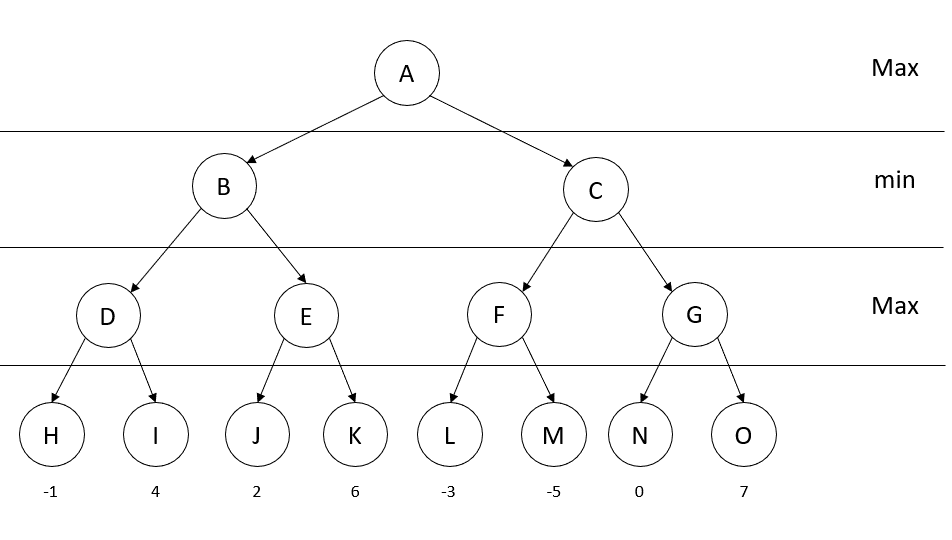
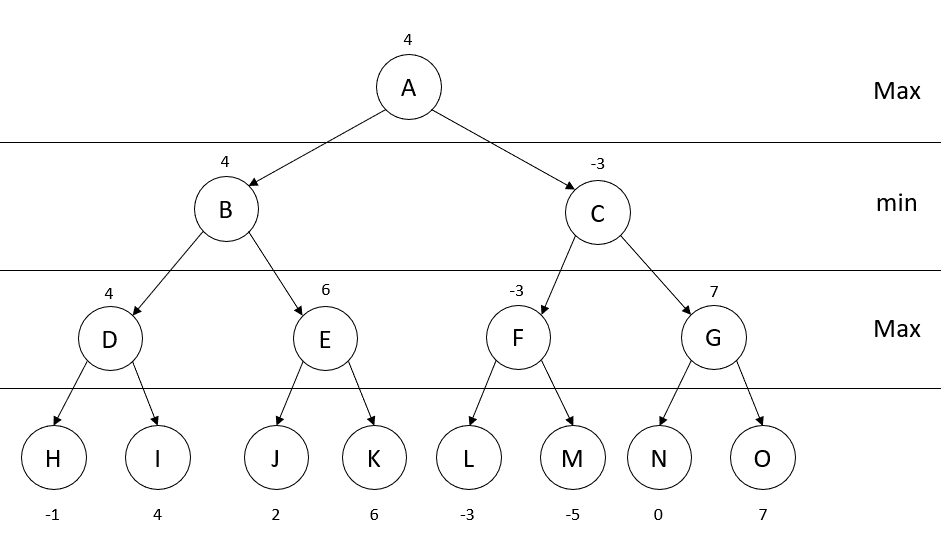
Cambio en imagen de grafo minmax

diff --git a/minmax.py b/minmax.py
@@ -7,12 +7,14 @@ def minmax(nodo, grafo, profundidad, turnoMax):
         for adyacente in grafo[nodo]:
             valor = minmax(adyacente, grafo, profundidad - 1, False)
             valor_max = max(valor_max, valor)
+        print("Valor maximo: ", valor_max)
         return valor_max
     else:
         valor_min = 999999999
         for adyacente in grafo[nodo]:
             valor = minmax(adyacente, grafo, profundidad - 1, True)
             valor_min = min(valor_min, valor)
+        print("Valor minimo: ", valor_min)
         return valor_min
 
 
@@ -53,5 +55,4 @@ utilidad1 = {
 }
 
 
-
-print(minmax('A', grafo1, 3, True))
+minmax('A', grafo1, 3, True)
